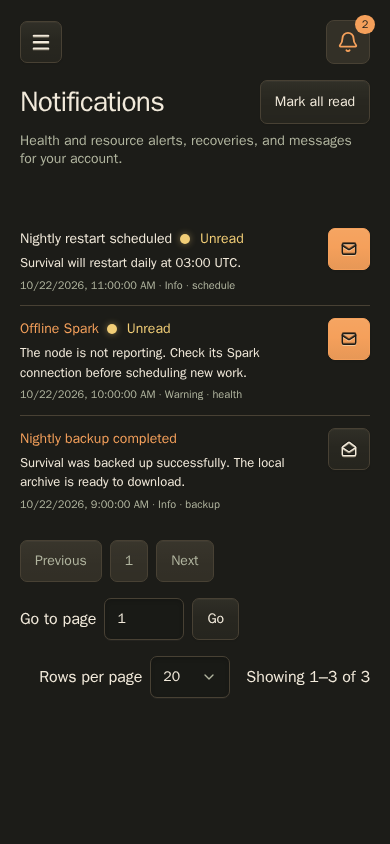
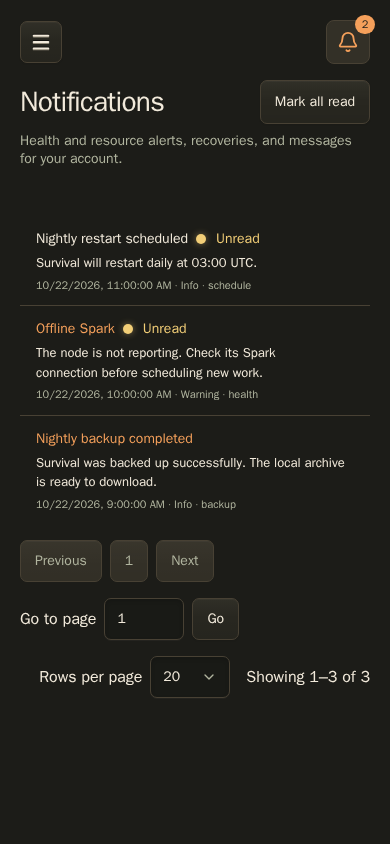
feat: simplify notification row acknowledgement

diff --git a/e2e/notifications.spec.ts b/e2e/notifications.spec.ts
@@ -1,0 +1,118 @@
+import { test, expect } from "./fixtures";
+import { login, openScreen } from "./screens";
+import type { Page } from "@playwright/test";
+import { readAuthenticatedSession } from "./auth";
+import type { Page as Paginated } from "../web/src/api/pagination";
+import type { Notification } from "../web/src/api/notifications";
+
+async function prepareUnreadNotifications(page: Page) {
+  const { csrf_token } = await readAuthenticatedSession(
+    await page.request.get("/api/v1/auth/session"),
+  );
+  const response = await page.request.get("/api/v1/notifications");
+  expect(response.ok()).toBeTruthy();
+  const notifications = (await response.json()) as Paginated<Notification>;
+  for (const title of ["Nightly backup completed", "Offline Spark"]) {
+    const item = notifications.items.find((item) => item.title === title);
+    if (!item) throw new Error(`Missing notification fixture: ${title}`);
+    expect(
+      (
+        await page.request.put(`/api/v1/notifications/${item.id}/read`, {
+          headers: {
+            "X-CSRF-Token": csrf_token,
+            Origin: new URL(page.url()).origin,
+          },
+          data: { read: false },
+        })
+      ).status(),
+    ).toBe(204);
+  }
+}
+
+test("notification rows acknowledge once without intercepting links", async ({
+  page,
+}) => {
+  await login(page);
+  await prepareUnreadNotifications(page);
+  await openScreen(page, "notifications", "Notifications");
+  const updates: unknown[] = [];
+  page.on("request", (request) => {
+    if (
+      request.method() === "PUT" &&
+      /\/notifications\/\d+\/read$/.test(request.url())
+    )
+      updates.push(request.postDataJSON());
+  });
+  const row = page.getByRole("article", {
+    name: "Nightly backup completed",
+    exact: true,
+  });
+  const check = row.getByRole("button", {
+    name: "Mark read: Nightly backup completed",
+    exact: true,
+  });
+  await page.mouse.move(0, 0);
+  await expect(check).toHaveCSS("opacity", "0");
+  await expect(row).toHaveCSS("background-color", "rgba(0, 0, 0, 0)");
+  await row.hover();
+  await expect(check).toHaveCSS("opacity", "1");
+  await expect(row).not.toHaveCSS("background-color", "rgba(0, 0, 0, 0)");
+  await row.getByRole("link").click();
+  const details = page.getByRole("dialog", { name: "Server", exact: true });
+  await expect(details).toBeVisible();
+  expect(updates).toEqual([]);
+  await details
+    .getByRole("button", { name: "Close", exact: true })
+    .first()
+    .click();
+  await expect(row.getByText("Unread", { exact: true })).toBeVisible();
+  await row.locator("p").first().click();
+  await expect(row.getByText("Unread", { exact: true })).toHaveCount(0);
+  await expect(row.getByRole("button")).toHaveCount(0);
+  await row.locator("p").first().click();
+  expect(updates).toEqual([{ read: true }]);
+  await expect(page.getByRole("button", { name: /^Mark unread:/ })).toHaveCount(
+    0,
+  );
+
+  const next = page.getByRole("article", {
+    name: "Offline Spark",
+    exact: true,
+  });
+  const nextCheck = next.getByRole("button", {
+    name: "Mark read: Offline Spark",
+    exact: true,
+  });
+  await nextCheck.focus();
+  await expect(nextCheck).toHaveCSS("opacity", "1");
+  await expect(next).not.toHaveCSS("background-color", "rgba(0, 0, 0, 0)");
+  await page.keyboard.press("Space");
+  await expect(next.getByText("Unread", { exact: true })).toHaveCount(0);
+  expect(updates).toEqual([{ read: true }, { read: true }]);
+});
+
+test.describe("touch notification acknowledgement", () => {
+  test.use({
+    hasTouch: true,
+    isMobile: true,
+    viewport: { width: 1400, height: 900 },
+  });
+  test("check affordance is visible without hover and rows can be tapped", async ({
+    page,
+  }) => {
+    await login(page);
+    await prepareUnreadNotifications(page);
+    await page.setViewportSize({ width: 390, height: 844 });
+    await page.goto("/#notifications");
+    const row = page.getByRole("article", {
+      name: "Nightly backup completed",
+      exact: true,
+    });
+    await expect(
+      row.getByRole("button", { name: "Mark read: Nightly backup completed" }),
+    ).toHaveCSS("opacity", "1");
+    await row.locator("p").first().tap();
+    await expect(row.getByText("Unread", { exact: true })).toHaveCount(0);
+    await expect(row.getByRole("button")).toHaveCount(0);
+  });
+});

diff --git a/web/tests/functional/notifications.test.tsx b/web/tests/functional/notifications.test.tsx
@@ -66,41 +66,65 @@ beforeEach(() => {
   vi.mocked(markAllNotificationsRead).mockResolvedValue();
 });
 
-test("read and unread actions have tooltips and notification-specific accessible names", async () => {
+test("only unread rows expose an accessible acknowledgement action", async () => {
   render(<NotificationsPage />);
   const read = await screen.findByRole("button", {
     name: "Mark read: Survival restarted",
   });
-  const unread = screen.getByRole("button", {
-    name: "Mark unread: Backup completed",
-  });
+  expect(screen.queryByRole("button", { name: /Mark unread:/ })).toBeNull();
+  expect(
+    within(
+      screen.getByRole("article", { name: "Backup completed" }),
+    ).queryByRole("button"),
+  ).toBeNull();
   expect(read.title).toBe("Mark read");
-  expect(unread.title).toBe("Mark unread");
   expect(
     screen.getByRole("button", { name: "Mark all read" }).textContent,
   ).toBe("Mark all read");
 });
 
-test("keyboard and pointer activation update the notification and its available action", async () => {
+test.each(["{Enter}", " "])(
+  "keyboard acknowledgement works with %s and cannot mark unread",
+  async (key) => {
+    const user = userEvent.setup();
+    render(<NotificationsPage />);
+    const read = await screen.findByRole("button", {
+      name: "Mark read: Survival restarted",
+    });
+    read.focus();
+    await user.keyboard(key);
+    expect(markNotificationRead).toHaveBeenLastCalledWith(2, true);
+    const message = screen.getByRole("article", { name: "Survival restarted" });
+    await waitFor(() =>
+      expect(within(message).queryByText("Unread")).toBeNull(),
+    );
+    expect(within(message).queryByRole("button")).toBeNull();
+    await user.click(message);
+    expect(markNotificationRead).toHaveBeenCalledTimes(1);
+  },
+);
+
+test("row clicks acknowledge unread messages but links and text selection do not", async () => {
   const user = userEvent.setup();
   render(<NotificationsPage />);
-  const read = await screen.findByRole("button", {
-    name: "Mark read: Survival restarted",
+  const row = await screen.findByRole("article", {
+    name: "Survival restarted",
   });
-  read.focus();
-  await user.keyboard("{Enter}");
-  expect(markNotificationRead).toHaveBeenLastCalledWith(2, true);
-  const unread = await screen.findByRole("button", {
-    name: "Mark unread: Survival restarted",
-  });
-  const message = screen.getByRole("article", { name: "Survival restarted" });
-  expect(within(message).queryByText("Unread")).toBeNull();
-  await user.click(unread);
-  expect(markNotificationRead).toHaveBeenLastCalledWith(2, false);
-  await screen.findByRole("button", {
-    name: "Mark read: Survival restarted",
-  });
-  expect(within(message).getByText("Unread")).toBeDefined();
+  await user.click(within(row).getByRole("link"));
+  expect(markNotificationRead).not.toHaveBeenCalled();
+  const selection = window.getSelection()!;
+  const range = document.createRange();
+  range.selectNodeContents(
+    within(row).getByText("The server is available again."),
+  );
+  selection.removeAllRanges();
+  selection.addRange(range);
+  // Dispatch directly so the test preserves the selected text.
+  row.click();
+  expect(markNotificationRead).not.toHaveBeenCalled();
+  selection.removeAllRanges();
+  await user.click(within(row).getByText("The server is available again."));
+  expect(markNotificationRead).toHaveBeenCalledExactlyOnceWith(2, true);
 });
 
 test("icon actions remain disabled while a notification update is pending", async () => {
@@ -118,6 +142,10 @@ test("icon actions remain disabled while a notification update is pending", asyn
   await userEvent.setup().click(read);
   for (const button of screen.getAllByRole<HTMLButtonElement>("button"))
     expect(button.disabled).toBe(true);
+  await userEvent
+    .setup()
+    .click(screen.getByRole("article", { name: "Survival restarted" }));
+  expect(markNotificationRead).toHaveBeenCalledTimes(1);
   await act(async () => {
     complete();
   });

diff --git a/web/src/pages/NotificationsPage.tsx b/web/src/pages/NotificationsPage.tsx
@@ -7,6 +7,7 @@ import { Button } from "../components/forms/Button";
 import { InlineMessage } from "../components/status/InlineMessage";
 import { ContentState } from "../components/layout/ContentState";
 import { PageHeader } from "../components/layout/PageHeader";
+import { isInteractionTarget } from "../components/table/interactionTargets";
 import { Pagination } from "../components/table/Pagination";
 import { usePagination } from "../hooks/usePagination";
 import { usePagedCollection } from "../hooks/usePagedCollection";
@@ -116,9 +117,20 @@ export function NotificationsPage() {
         )}
         {items.map((item) => (
           <article
-            className="notification-message"
+            className={`notification-message${!item.read_at ? " notification-unread" : ""}`}
             key={item.id}
             aria-label={item.title}
+            onClick={(event) => {
+              if (
+                item.read_at ||
+                busy ||
+                event.defaultPrevented ||
+                isInteractionTarget(event.target, event.currentTarget) ||
+                window.getSelection()?.isCollapsed === false
+              )
+                return;
+              void perform(() => markNotificationRead(item.id, true));
+            }}
           >
             <div className="notification-content">
               <h2>
@@ -141,28 +153,22 @@ export function NotificationsPage() {
                 · {severityLabels[item.severity] ?? item.severity} · {item.kind}
               </p>
             </div>
-            <Button
-              size="small"
-              iconOnly
-              variant={item.read_at ? "default" : "primary"}
-              title={t(
-                item.read_at
-                  ? "notificationsPage.markUnread"
-                  : "notificationsPage.markRead",
-              )}
-              aria-label={t(
-                item.read_at
-                  ? "notificationsPage.markUnreadTitle"
-                  : "notificationsPage.markReadTitle",
-                { title: item.title },
-              )}
-              disabled={busy}
-              onClick={() =>
-                void perform(() => markNotificationRead(item.id, !item.read_at))
-              }
-            >
-              <NavigationIcon name={item.read_at ? "mail-open" : "mail"} />
-            </Button>
+            {!item.read_at && (
+              <button
+                type="button"
+                className="notification-read-action"
+                title={t("notificationsPage.markRead")}
+                aria-label={t("notificationsPage.markReadTitle", {
+                  title: item.title,
+                })}
+                disabled={busy}
+                onClick={() =>
+                  void perform(() => markNotificationRead(item.id, true))
+                }
+              >
+                <NavigationIcon name="check" />
+              </button>
+            )}
           </article>
         ))}
         <Pagination

diff --git a/web/src/pages/notifications.css b/web/src/pages/notifications.css
@@ -2,7 +2,7 @@
   display: flex;
   align-items: center;
   gap: 16px;
-  padding: 12px 0;
+  padding: 12px 16px;
   border-bottom: 1px solid var(--border);
   overflow-wrap: anywhere;
 
@@ -35,8 +35,46 @@
     font-size: 11px;
   }
 }
-.notification-message > .button {
+.notification-unread {
+  cursor: pointer;
+
+  &:hover,
+  &:focus-within {
+    background: var(--surface-hover);
+  }
+}
+.notification-read-action {
+  display: inline-flex;
+  align-items: center;
+  justify-content: center;
   flex-shrink: 0;
+  width: 44px;
+  height: 44px;
+  padding: 0;
+  border: 0;
+  border-radius: 4px;
+  background: transparent;
+  color: var(--accent);
+  cursor: pointer;
+  opacity: 0;
+
+  &:disabled {
+    cursor: wait;
+  }
+
+  &:focus-visible {
+    outline: 2px solid var(--accent);
+    outline-offset: 2px;
+  }
+}
+.notification-unread:hover .notification-read-action,
+.notification-unread:focus-within .notification-read-action {
+  opacity: 1;
+}
+@media (hover: none) {
+  .notification-read-action {
+    opacity: 1;
+  }
 }
 @media (max-width: 640px) {
   .notification-message {
